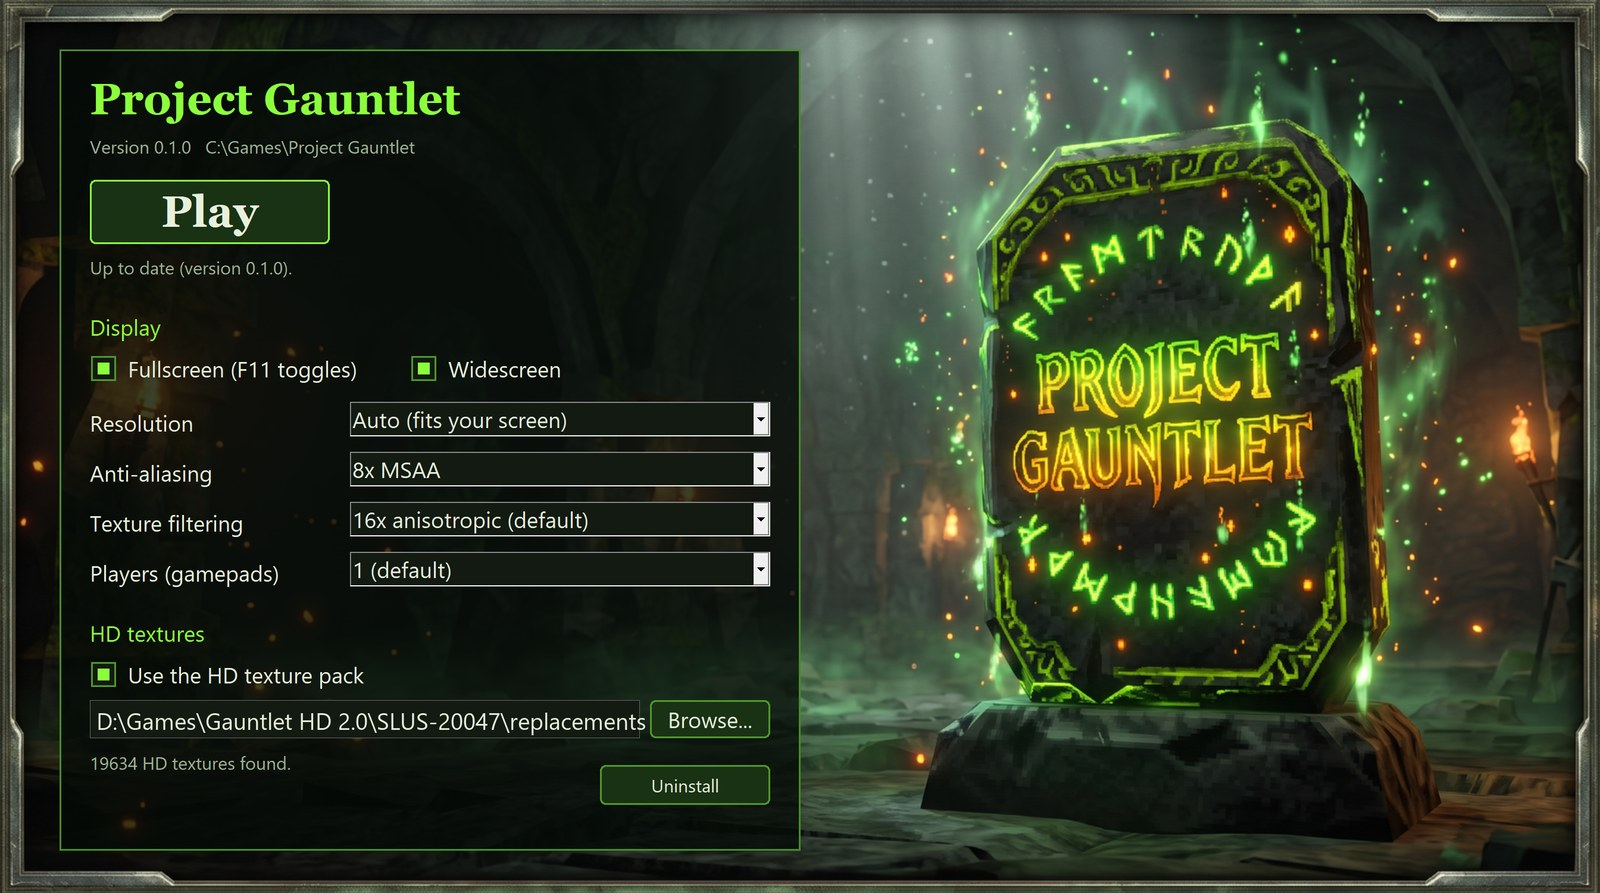
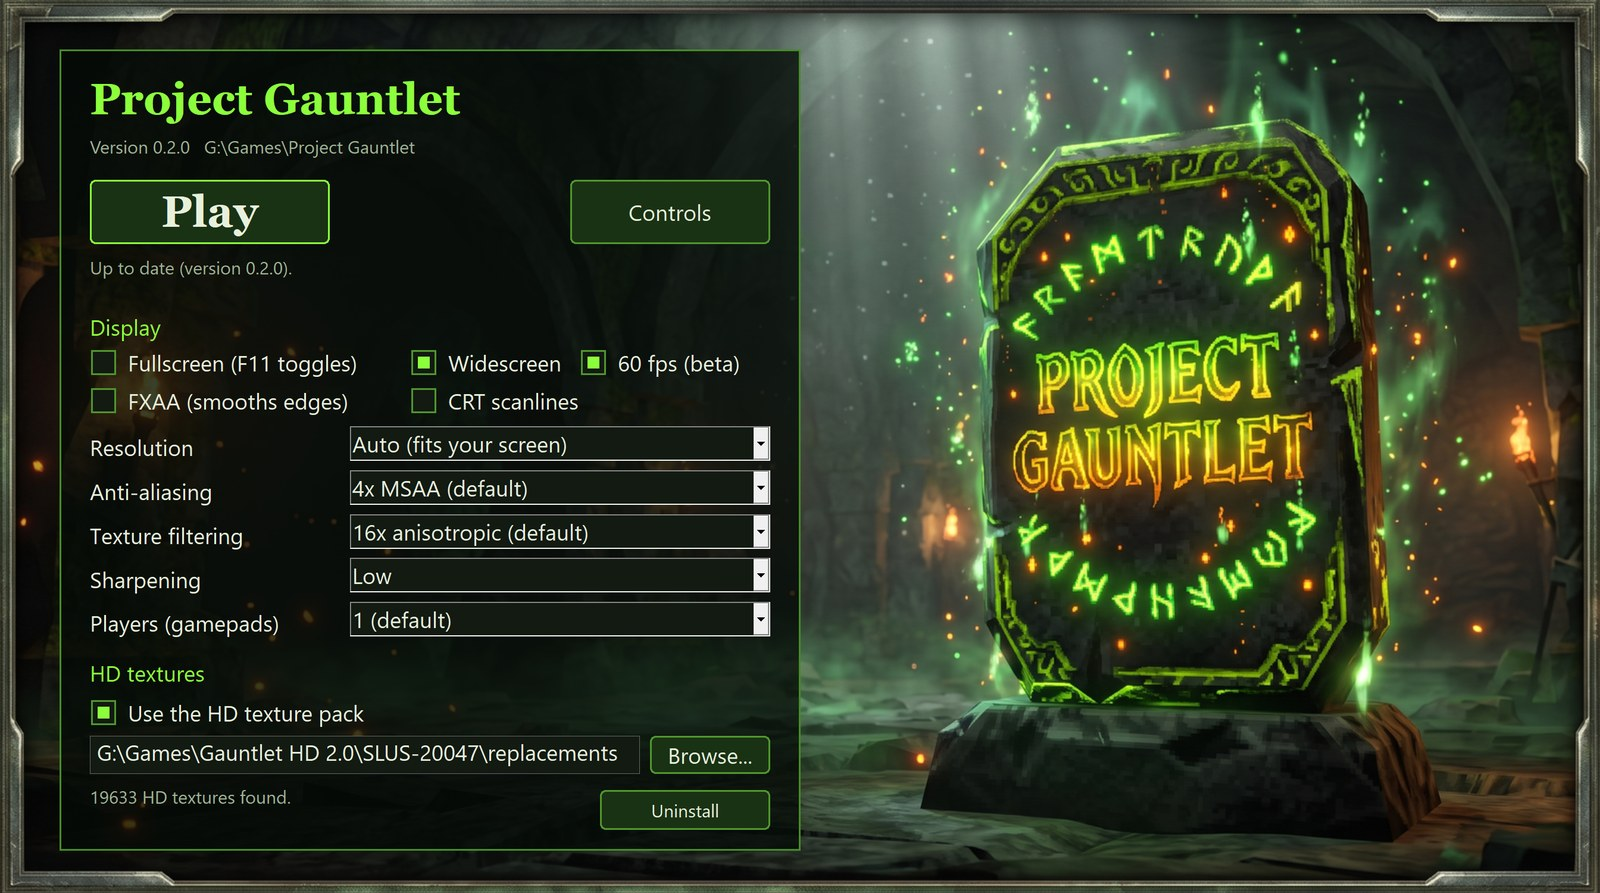
0.2.0: README (60 fps, post-processing, controls, launcher screenshots), STATE and installer notes
Claude-Session: https://claude.ai/code/session_01JYzPsfVsHboAFFsRcJLfcs

diff --git a/README.md b/README.md
@@ -5,7 +5,7 @@
 **Gauntlet: Dark Legacy (Xbox) rebuilt as a native Windows game.**
 
 A static recompilation by 8gram Labs: the original x86 game code is translated to C and compiled for 64-bit
-Windows, with a Direct3D 11 renderer, HD texture packs, widescreen, MSAA and a launcher.
+Windows, with a Direct3D 11 renderer, HD texture packs, widescreen, 60 fps, MSAA and a launcher.
 
 ![Launcher](docs/images/launcher.jpg)
 
@@ -25,10 +25,14 @@ Windows, with a Direct3D 11 renderer, HD texture packs, widescreen, MSAA and a l
 - **HD texture packs.** It loads PCSX2-format replacement packs made for the PS2 version, such as the community
   *Gauntlet Dark Legacy HD 2.0* pack. The PS2 texture hashes are rebuilt from the Xbox data, so the pack works
   unchanged.
-- **Anti-aliasing and filtering.** Up to 8x MSAA and 16x anisotropic filtering.
+- **60 fps (beta).** The Xbox game caps itself at 30 fps but times its game logic from the clock, so the cap can
+  be lifted without speeding the game up.
+- **Anti-aliasing and filtering.** Up to 8x MSAA, FXAA and 16x anisotropic filtering.
+- **Post-processing.** Optional sharpening (good with HD textures) and a CRT scanline look.
 - **Borderless fullscreen.** Toggle with F11 or Alt+Enter.
 - **Up to 4 players** on XInput gamepads.
-- **Launcher.** Play, check for updates, change display settings, pick an HD pack, uninstall.
+- **Remappable controls.** Rebind keyboard keys and gamepad buttons in the launcher.
+- **Launcher.** Play, check for updates, change display and control settings, pick an HD pack, uninstall.
 - **Auto-update.** A new release is downloaded and the game is rebuilt from your installed data, without the disc.
 
 ## HD textures: before and after
@@ -85,15 +89,17 @@ Uninstalling never touches it.
 | START / BACK | Enter / Backspace |
 | | F11 or Alt+Enter: fullscreen |
 
-XInput gamepads work too. Set the number of players in the launcher.
+XInput gamepads work too. Set the number of players and remap keys and buttons in the launcher (**Controls**).
+
+![Launcher controls page](docs/images/launcher_controls.jpg)
 
 ## Status
 
 The game boots and runs at full speed (30 fps, as on the Xbox). Every realm and boss up to the Lich and the Yeti
 has been played through, with saves, level progression and multiplayer working. Known gaps:
-- Some 2D text is missing ("Press START" in empty HUD panels, wizard subtitles).
-- Fog and fixed-function lighting are not implemented yet.
-- About 10% of the textures seen in a level have no match in the HD pack and stay original.
+- About 8% of the textures seen in a level stay original: the pack has no file for them (Xbox-only art such as
+  the A/B button icons, and some effect animations).
+- 60 fps is new: report anything that runs at the wrong speed.
 
 ## How it works
 
@@ -102,7 +108,8 @@ has been played through, with saves, level progression and multiplayer working. 
 - `runtime/` holds the Xbox kernel, file system and threads, DirectSound mixed in software, and a Direct3D 11
   translation of the NV2A push buffer.
 - `runtime/src/hdtex.c` matches textures against PCSX2 packs. It rebuilds the PS2 TEX0 hash by laying the indices
-  out as 256-byte GS memory blocks, and the CLUT hash from the palette.
+  out as 256-byte GS memory blocks, and the CLUT hash from the palette. When a pack has several palette variants of
+  one texture, it picks the closest by image comparison. Loaded HD textures stay within a VRAM budget.
 - `installer/` holds the setup and launcher (one Win32 exe), and `tools/gt_build.py` runs the on-PC build.
 
 See [docs/design.md](docs/design.md) and [docs/installer.md](docs/installer.md) for the details.

diff --git a/STATE.md b/STATE.md
@@ -367,11 +367,27 @@ Static recompilation of **Gauntlet: Dark Legacy (Xbox, USA)** to PC.
   load_settings (env wins). HD pack used in place (GT_HDTEX), not copied. User's install C:\Games\Project Gauntlet
   updated with it. Not click-tested by hand yet.
 
+- 2026-11-18: 0.2.0 WORK.
+  - HD misses: of 61 in A1, 48 have no file in the pack (Xbox-only art: A/B icons, legal screens; effect frames);
+    9 more now match through `pick` (several palette variants of one TEX0: decode each, box-filter to the original
+    size, take the closest, mean channel diff <= 40). VRAM budget GT_HDVRAM (default half the adapter, 512..4096 MB):
+    textures no cache entry holds are freed oldest first; gpu_d3d11.c drops cache entries idle 3 s when over budget.
+  - Fog/lighting: no run log ever hit the "not implemented" warnings (78 logs, every realm): the game does not use them.
+  - HD "font size" difference was the random hero name (JUSTIN vs TRENT), not the pack.
+  - Post-processing in present (GT_SHARPEN 0..100, GT_FXAA=1, GT_CRT=1); GT_SHOTBB=1 saves the presented frame.
+  - Controls: GT_KEYS (18 hex VKs) / GT_PADMAP (14 sources) in hle.c; launcher Controls page writes them.
+  - 60 FPS: the frame end (95FB0) busy-waits until GetTickCount - last >= 34 ms; ClockOncePerFrame (2C700) derives
+    dt from the elapsed 60 Hz vsync count ([14E5AC], built from GetTickCount in A9310), so a 17 ms wait keeps game
+    speed (walk speed and cutscene lengths match). lift.py SOURCE_PATCHES -> g_frame_ms (main.c, GT_FPS=60).
+    A1 soak at 58-59 fps: combat, exit, shop, Tower. Debug: GT_TICKLOG, GT_POSLOG, GT_VBLANKHZ.
+  - Missing text: "Press START" in HUD panels is never drawn by the Xbox code (string refs: attract, title, select
+    only; not in TEXT/ENGLISH.ROM). The wizard bars are the cinematic letterbox; no caption call in that scene.
+    Neither is a confirmed bug without a hardware reference.
+  - Installed 0.2.0 over C:\Games\Project Gauntlet with --update (55 s); installed game at 58.7 fps with the pack.
+
 ## Next
-0. User click-through of the launcher (Play, Browse, Uninstall). Then release 0.2.0 when the user says push (bump
-   VERSION, build, publish on forge + GitLab). HD misses (61/636): check GT_HDLOG miss lines; VRAM budget for hdtex.
-1. Missing text: "Press START" in empty HUD panels and the wizard subtitles in the cutscene bars (above).
-   Then test the other characters (routes only use the default hero), GARM movie (level id 0x2B) and the
+0. Hand-test the launcher (Play, Update download, Uninstall, Browse) and 60 fps in more levels / bosses.
+1. Test the other characters (routes only use the default hero), GARM movie (level id 0x2B) and the
    legend item movies. Check the white-player frames in A1. Watch for crashes, missed targets and the
    one-time gpu warnings (fog: gpu_d3d11.c "fog not implemented"; lighting). Unresolved, low priority: walking onto
    pad III did not fire (dist 4.9-5.8); the targeted cheat bypasses it. Level timing drifts: use anchors.

diff --git a/docs/installer.md b/docs/installer.md
@@ -71,6 +71,11 @@ the game is lifted and compiled on the player's PC from their own disc image.
   msaa 8, widescreen 1.672, back buffer 3440x1440, hdtex 19633 textures from the pack folder. Update check against
   the forge with no release (404) shows "Up to date".
 
+- 2026-11-18 0.2.0: setup `--update --dir C:\Games\Project Gauntlet` (~55 s, settings.ini kept); the on-PC
+  lift applies SOURCE_PATCHES (g_frame_ms in build\lifted_003.c); the installed game ran at 58.7 fps with GT_FPS=60.
+  Launcher driven by BM_CLICK / posted WM_KEYDOWN: Controls page, key capture (A -> X unbinds B), Back, settings
+  written (GT_KEYS, GT_FPS, GT_FXAA, GT_SHARPEN). Uninstall still not run from the launcher.
+
 ## Open
 - Launcher not click-tested by hand (Play, Update download, Uninstall from the launcher, HD Browse); fresh install
   with the HD picker not run.
